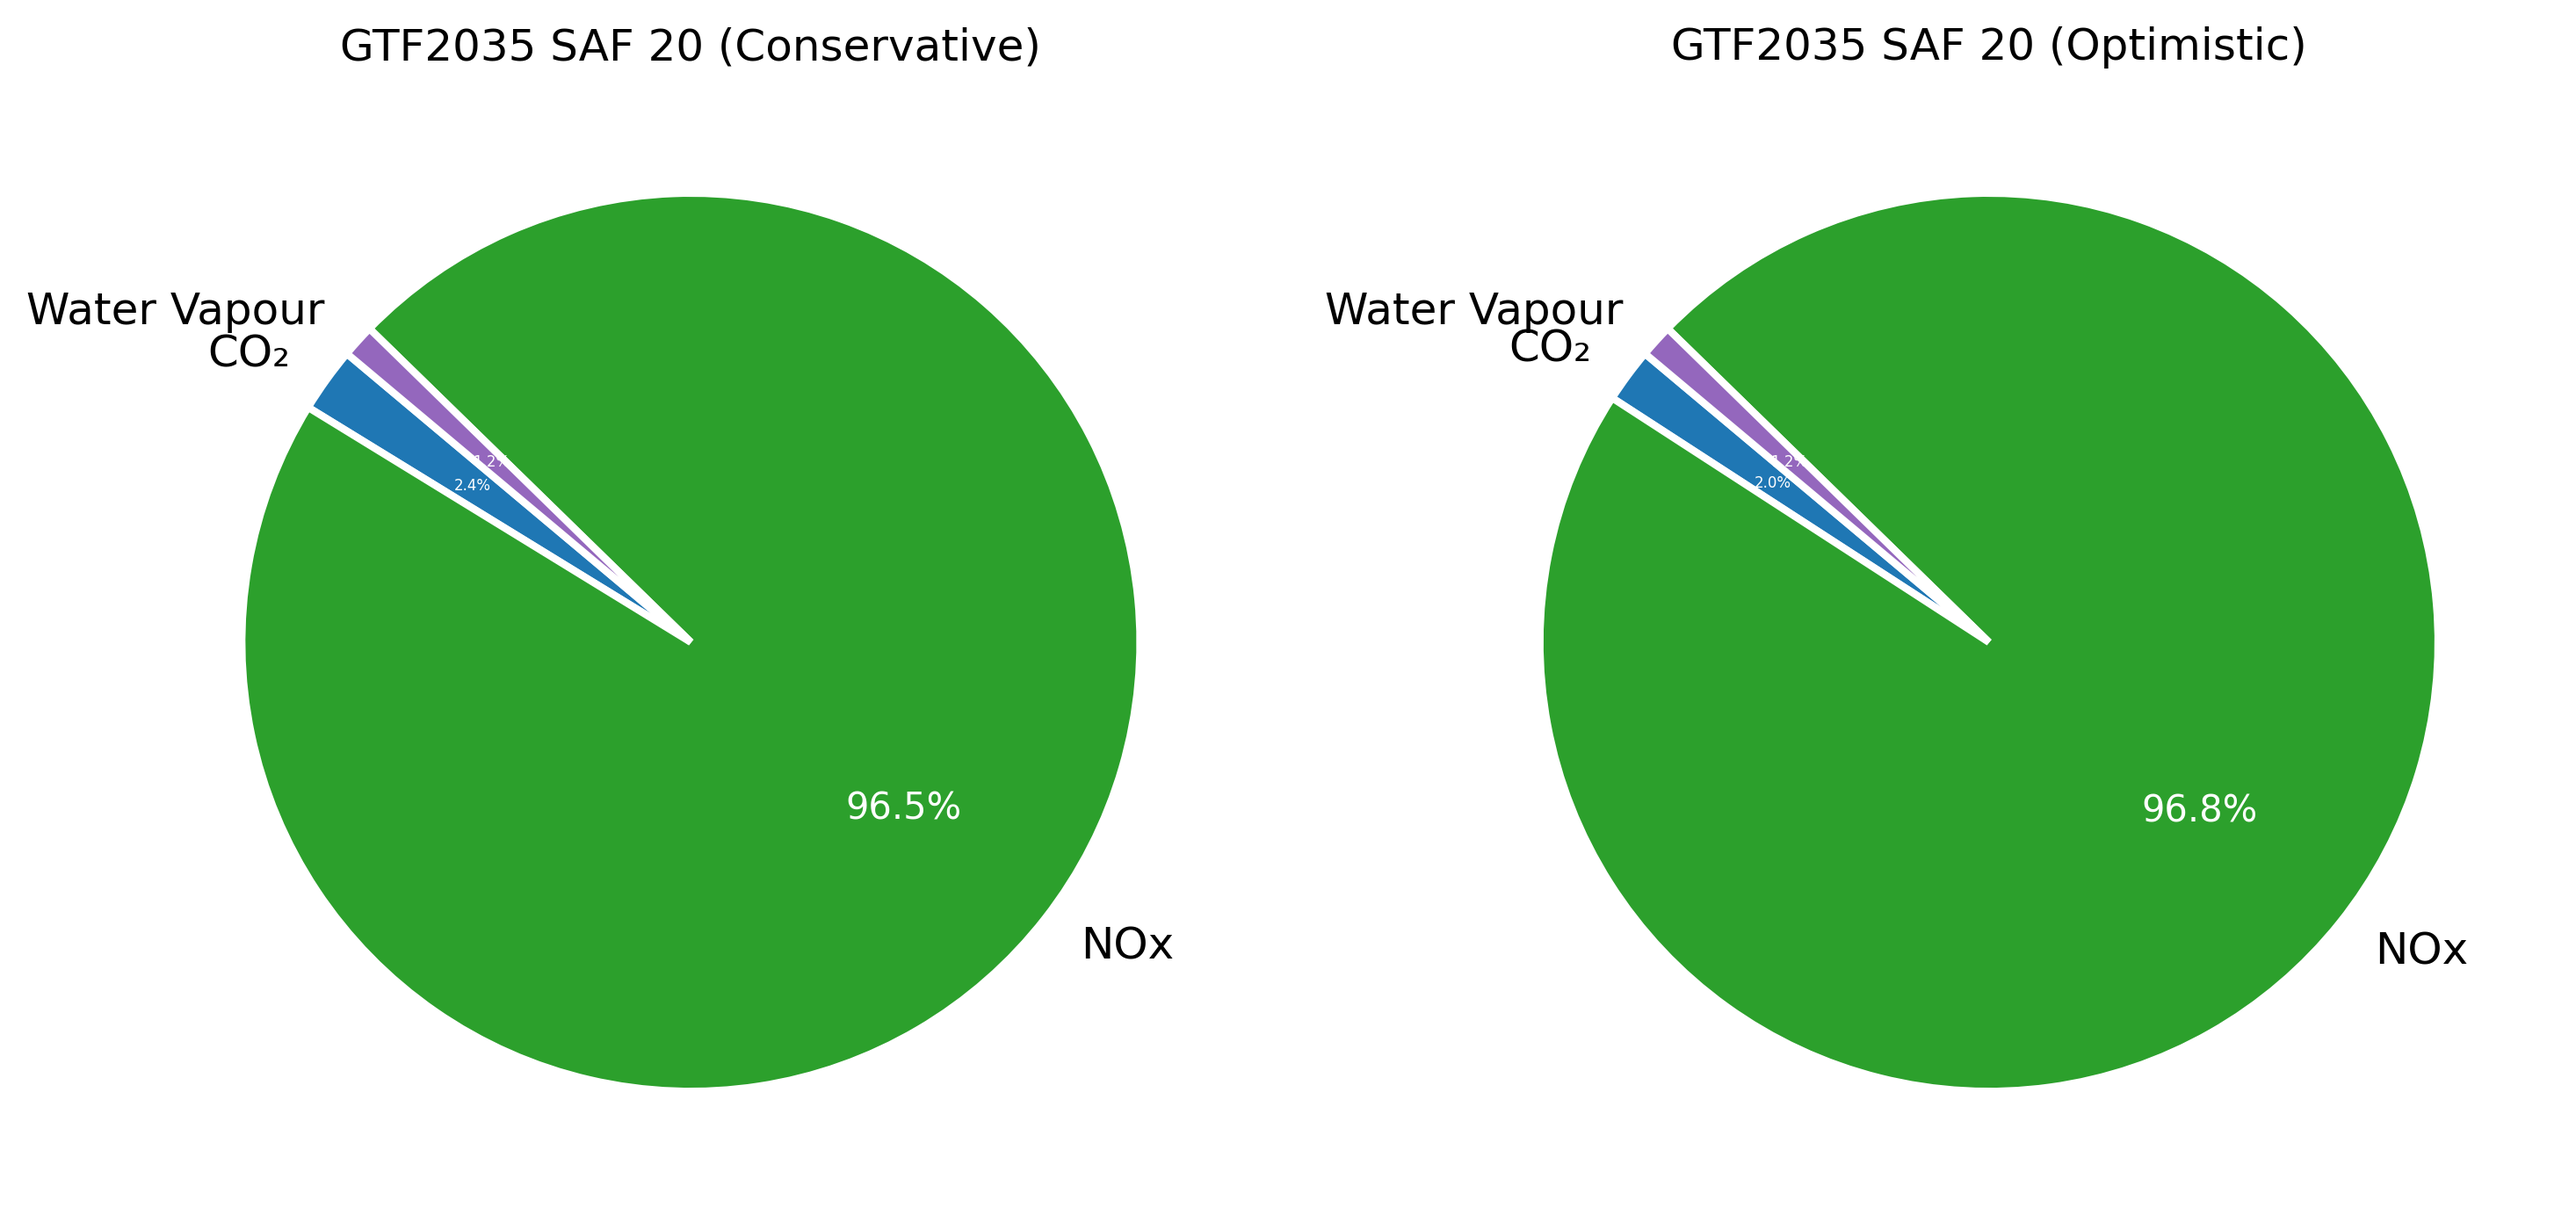
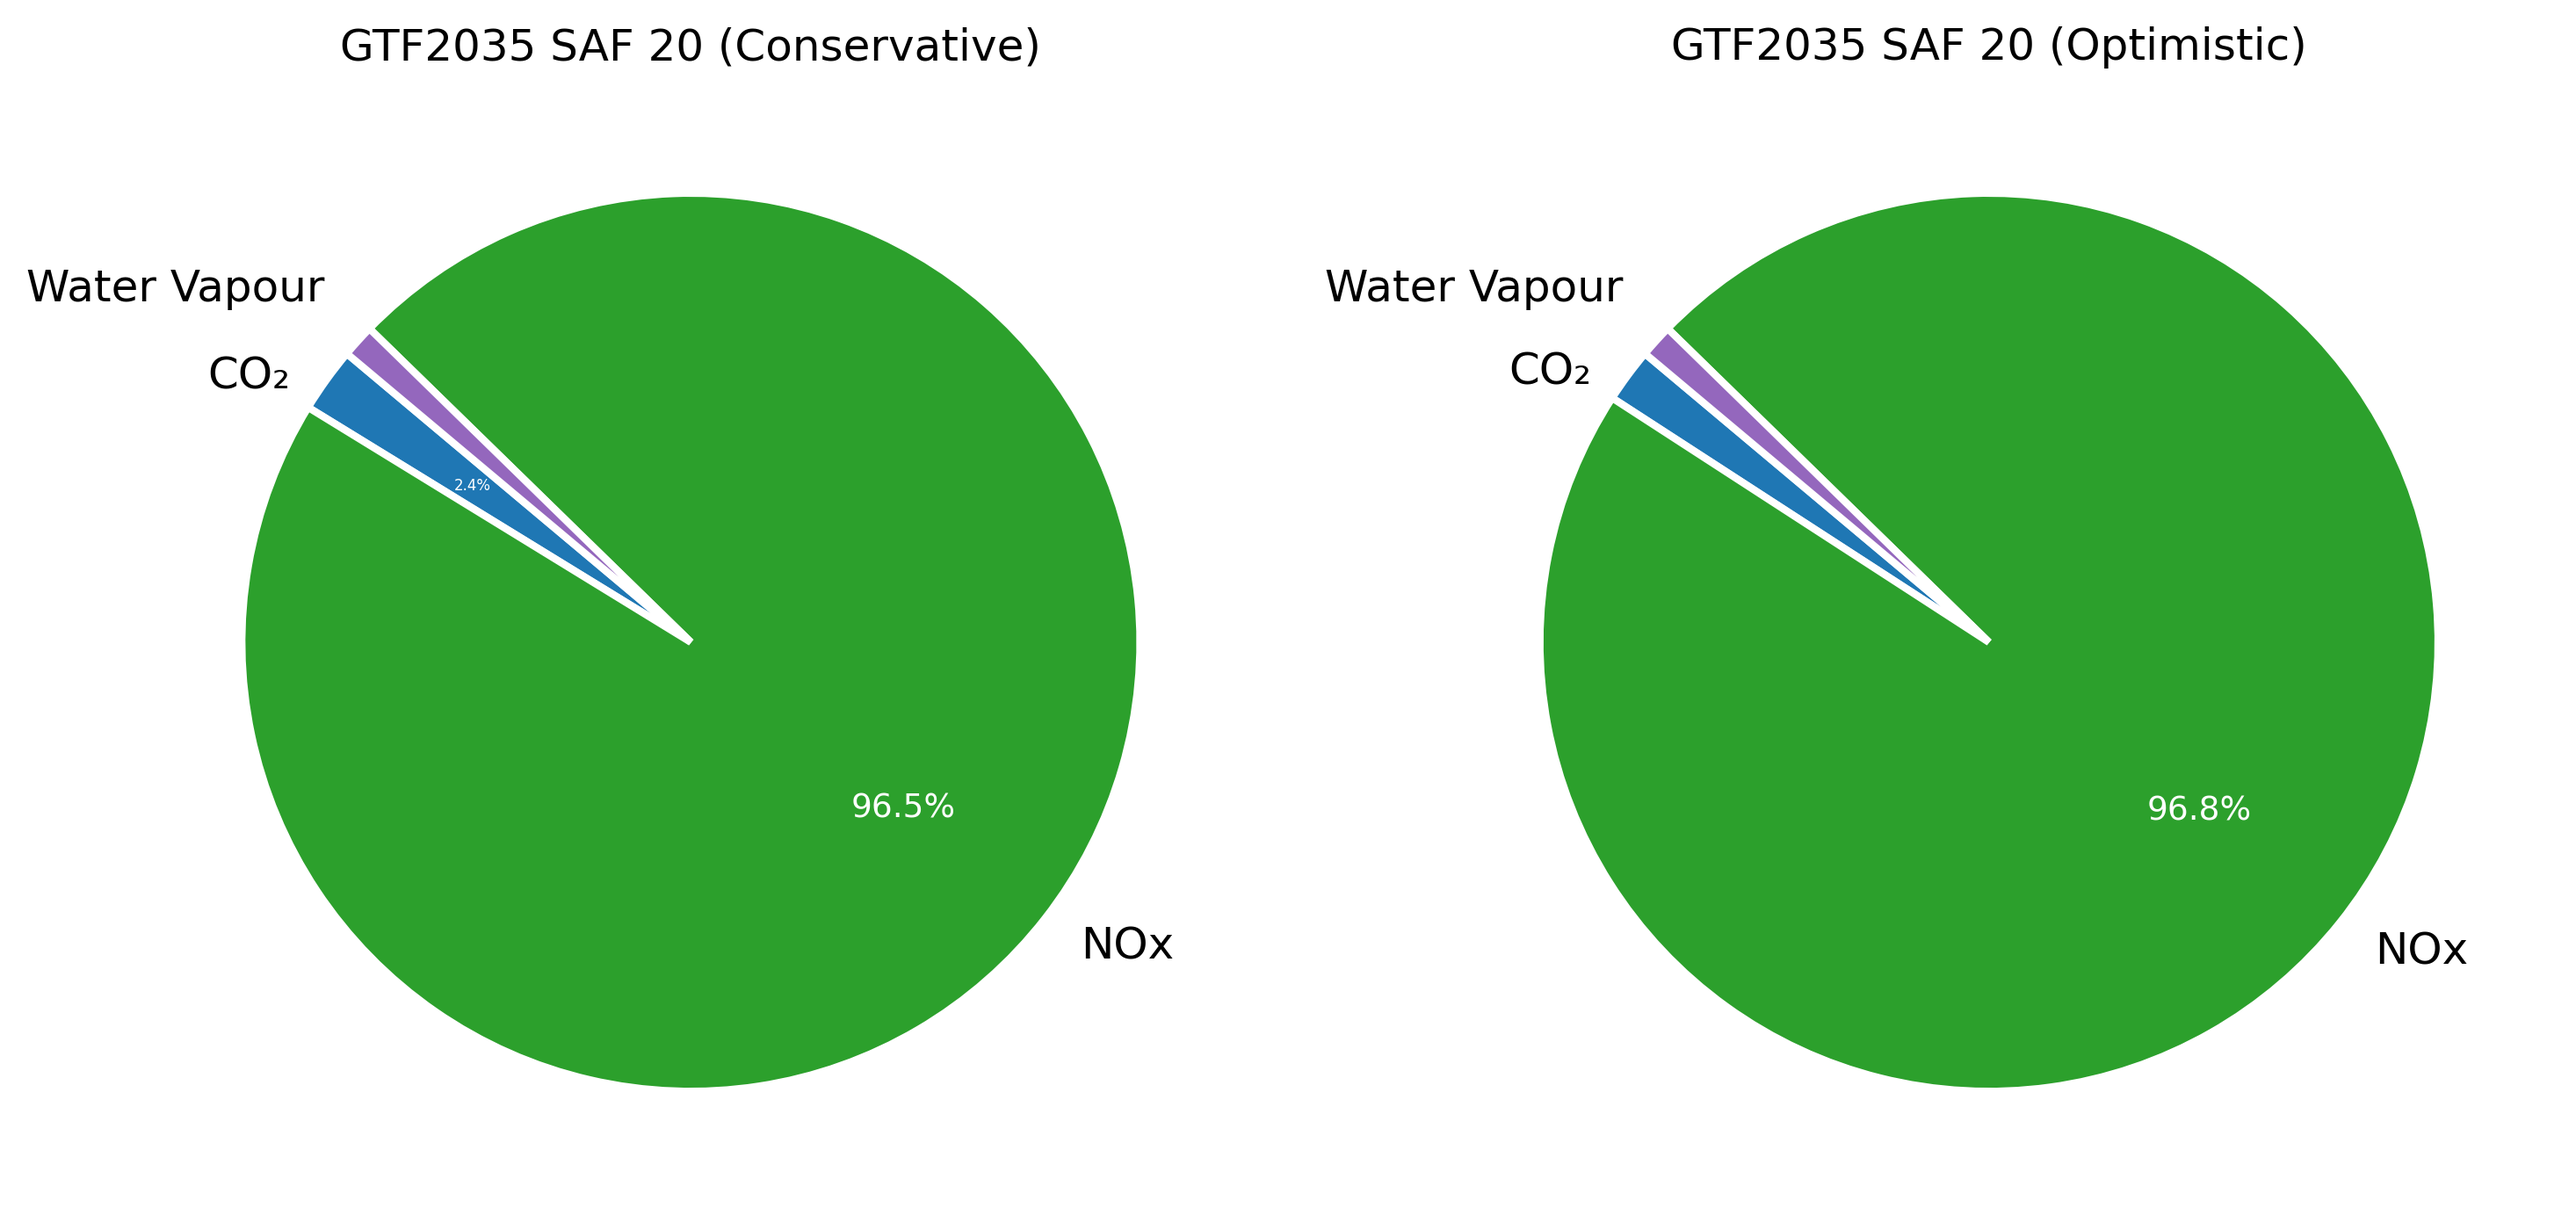
better portion plots

diff --git a/results_climate_nonco_co.py b/results_climate_nonco_co.py
@@ -733,15 +733,46 @@ def plot_climate_impact_pies(df, engines, saf_levels, df_name, daytime_filter=Fa
             plot_title = f"{engine_title}{saf_label} ({filter_label})" if filter_label else f"{engine_title}{saf_label}"
 
             def plot_pie(ax, values, labels, colors, title):
+                def autopct_func(pct):
+                    return f'{pct:.1f}%' if pct >= 2 else ''
+
                 wedges, texts, autotexts = ax.pie(
-                    values, labels=labels, autopct='%1.1f%%',
+                    values, labels=labels, autopct=autopct_func,
                     colors=colors, startangle=140, wedgeprops={"edgecolor": "white", "linewidth": 2},
                     textprops={'color': 'black', 'fontsize': 12}
                 )
+
+                # Adjust font size and color for percentage text
                 for autotext in autotexts:
-                    pct = float(autotext.get_text().strip('%'))
-                    autotext.set_fontsize(4 if pct < 4 else 8 if pct < 7 else 10)
-                    autotext.set_color('white')
+                    try:
+                        pct = float(autotext.get_text().strip('%'))
+                        autotext.set_fontsize(4 if pct < 4.1 else 7 if pct < 7 else 9)
+                        autotext.set_color('white')
+                    except ValueError:
+                        autotext.set_text('')
+
+                # Identify and conditionally adjust CO₂ and Water Vapour labels if they are close and one is <2%
+                label_positions = {}
+                for text, label in zip(texts, labels):
+                    label_positions[label] = text.get_position()
+
+                if 'CO₂' in label_positions and 'Water Vapour' in label_positions:
+                    y_co2 = label_positions['CO₂'][1]
+                    y_h2o = label_positions['Water Vapour'][1]
+                    dist = abs(y_co2 - y_h2o)
+
+                    value_dict = dict(zip(labels, values))
+                    small_co2 = value_dict.get('CO₂', 1) < 0.02
+                    small_h2o = value_dict.get('Water Vapour', 1) < 0.02
+
+                    if dist < 0.1 and (small_co2 or small_h2o):
+                        for text, label in zip(texts, labels):
+                            x, y = text.get_position()
+                            if label == 'CO₂':
+                                text.set_position((x, y - 0.05))
+                            elif label == 'Water Vapour':
+                                text.set_position((x, y + 0.05))
+
                 ax.set_title(title)
 
             if saf in [20, 100]:
